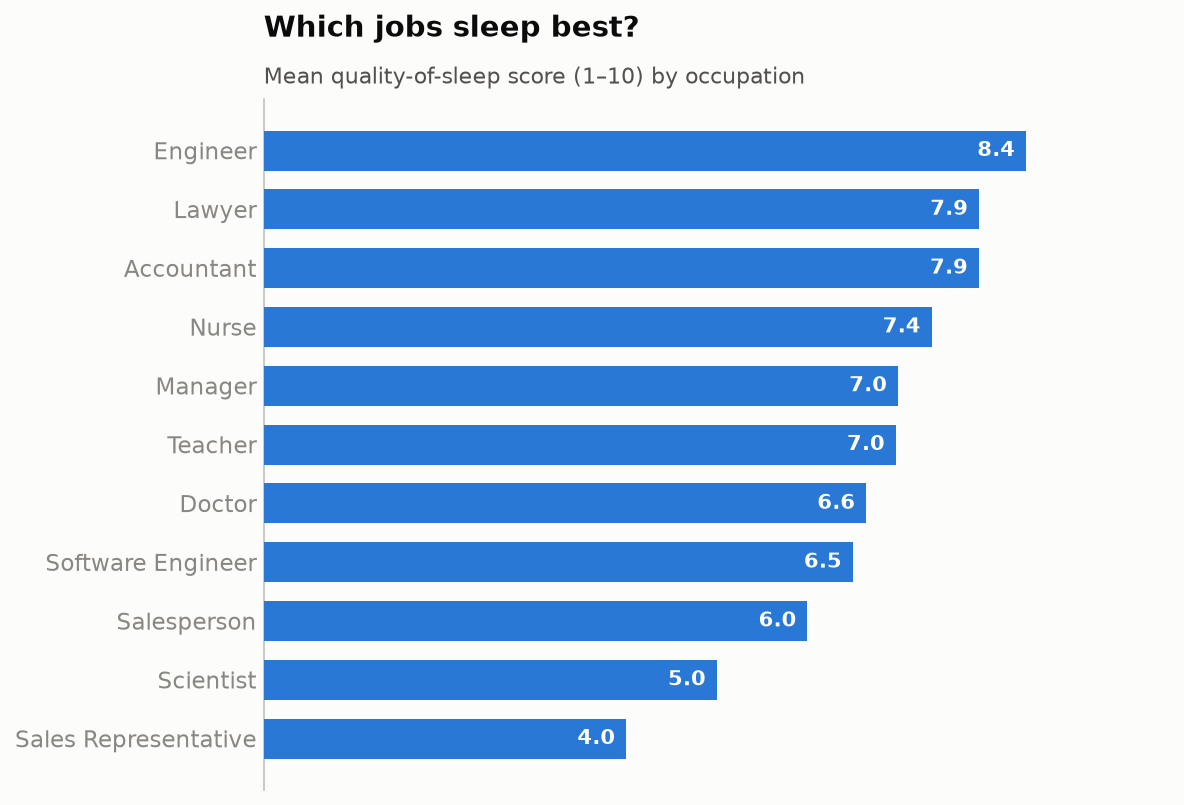
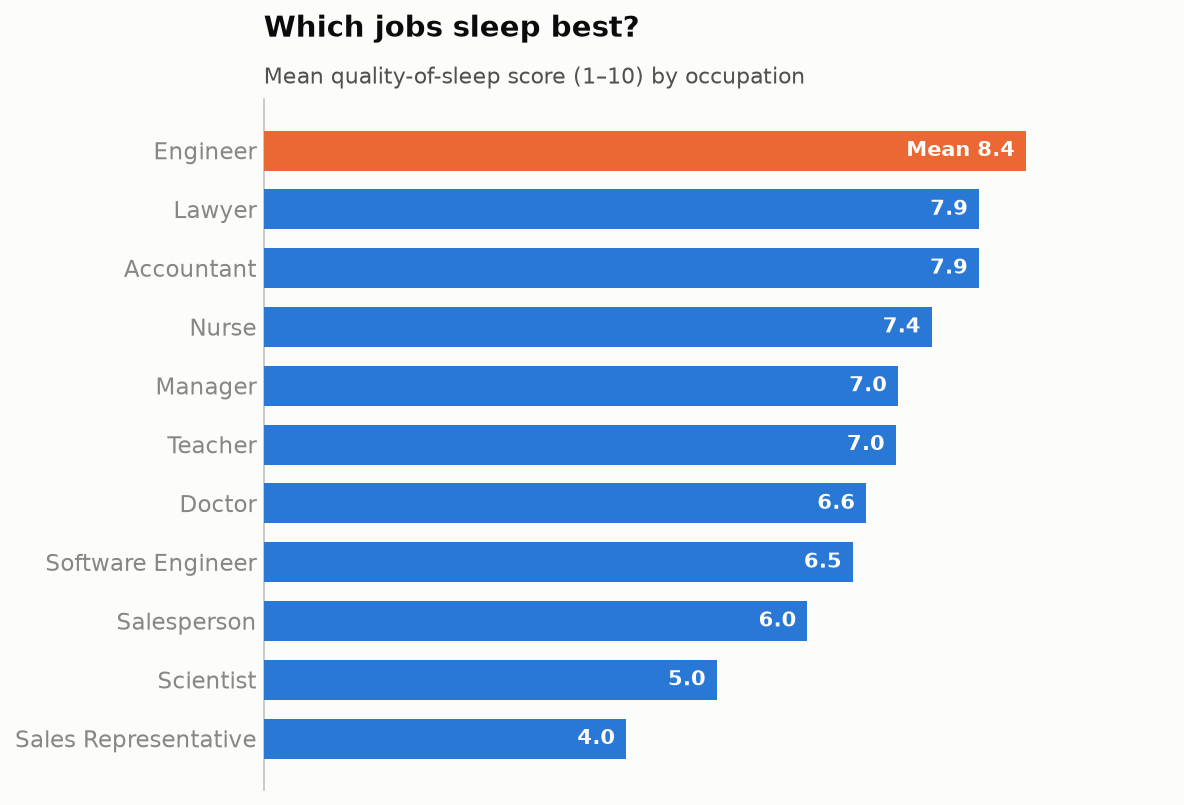
Highlight the top-scoring occupation in the ranking chart
The highest-mean bar (Engineer) now renders in a warm HIGHLIGHT color instead
of the shared accent, and its label reads 'Mean 8.4' so the best-sleeping job
reads instantly. Highlight follows the data, not a hardcoded name.

Claude-Session: https://claude.ai/code/session_014MgEWMLn54NU3BgDgiQ9v1

Changed region(s): [[0.2188, 0.1553, 0.875, 0.2174]]

diff --git a/src/vision_plot/charts.py b/src/vision_plot/charts.py
@@ -16,7 +16,9 @@ import numpy as np
 import pandas as pd
 from matplotlib.colors import LinearSegmentedColormap
 
-from .theme import ACCENT, DIVERGING, INK, PALETTE, apply_theme, style_axes, titled
+from .theme import (
+    ACCENT, DIVERGING, HIGHLIGHT, INK, PALETTE, apply_theme, style_axes, titled,
+)
 
 # Numeric columns worth correlating (Person ID is just a row label).
 _NUMERIC = [
@@ -34,21 +36,29 @@ def _require(df: pd.DataFrame, cols: list[str]) -> None:
 def quality_by_occupation(df: pd.DataFrame) -> plt.Figure:
     """Ranked horizontal bars: mean sleep quality per occupation.
 
-    Aesthetic: a single accent hue (ranking needs magnitude, not identity),
-    bars sorted so the reader gets the ordering for free, and each bar
-    direct-labelled so the x-axis can disappear entirely.
+    Aesthetic: a single accent hue for context, with the top-scoring occupation
+    picked out in a warm highlight so the winner reads instantly. Bars are sorted
+    so the ordering comes for free, and each bar is direct-labelled so the x-axis
+    can disappear entirely.
     """
     _require(df, ["Occupation", "Quality of Sleep"])
     apply_theme()
     means = (df.groupby("Occupation")["Quality of Sleep"]
                .mean().sort_values())
 
+    # Everything sits in the calm accent; the highest bar gets a warm highlight
+    # so the reader's eye lands on the best-sleeping job first.
+    top = len(means) - 1
+    colors = [ACCENT] * len(means)
+    colors[top] = HIGHLIGHT
+
     fig, ax = plt.subplots(figsize=(8, 5.5))
-    bars = ax.barh(means.index, means.values, color=ACCENT,
+    bars = ax.barh(means.index, means.values, color=colors,
                    height=0.68, zorder=3)
-    for bar, val in zip(bars, means.values):
+    for i, (bar, val) in enumerate(zip(bars, means.values)):
+        label = f"Mean {val:.1f}" if i == top else f"{val:.1f}"
         ax.text(val - 0.12, bar.get_y() + bar.get_height() / 2,
-                f"{val:.1f}", va="center", ha="right",
+                label, va="center", ha="right",
                 color=INK["surface"], fontweight="bold", fontsize=10)
 
     style_axes(ax, grid_axis=None)

diff --git a/src/vision_plot/theme.py b/src/vision_plot/theme.py
@@ -23,7 +23,8 @@ PALETTE = [
     "#e34948",  # 8 red
 ]
 
-ACCENT = PALETTE[0]  # single-series charts use one confident hue
+ACCENT = PALETTE[0]     # single-series charts use one confident hue
+HIGHLIGHT = PALETTE[1]  # warm emphasis for the one mark that matters most
 
 # Ink + chrome. Text always wears an ink token, never a series color.
 INK = {
